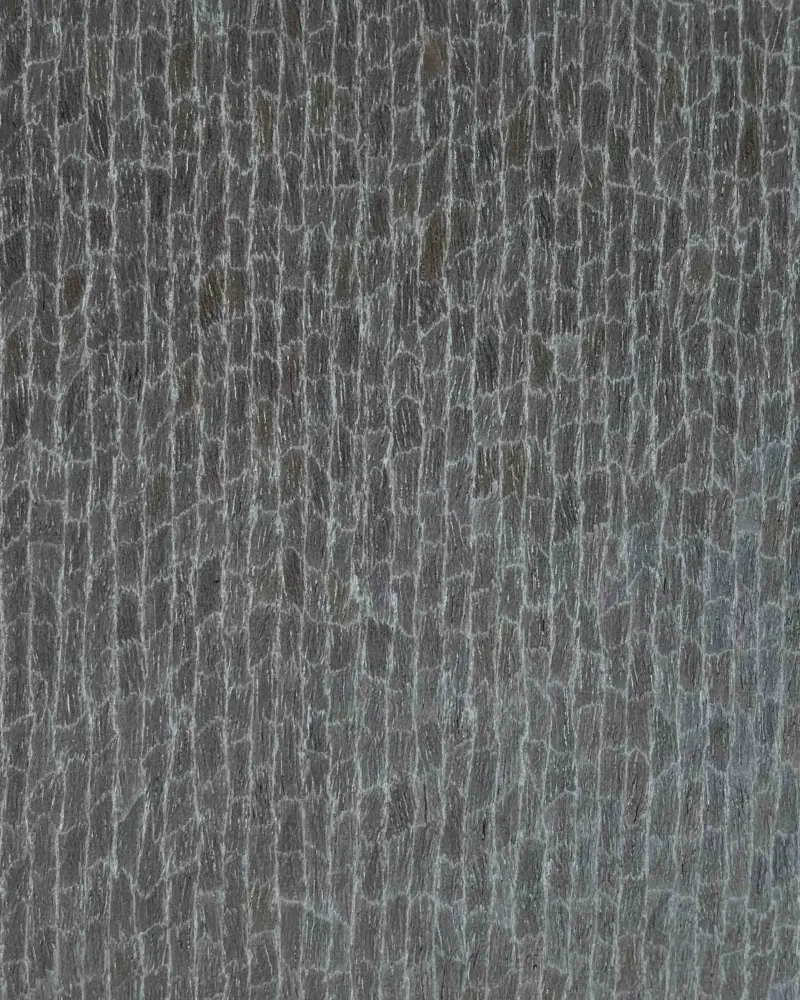
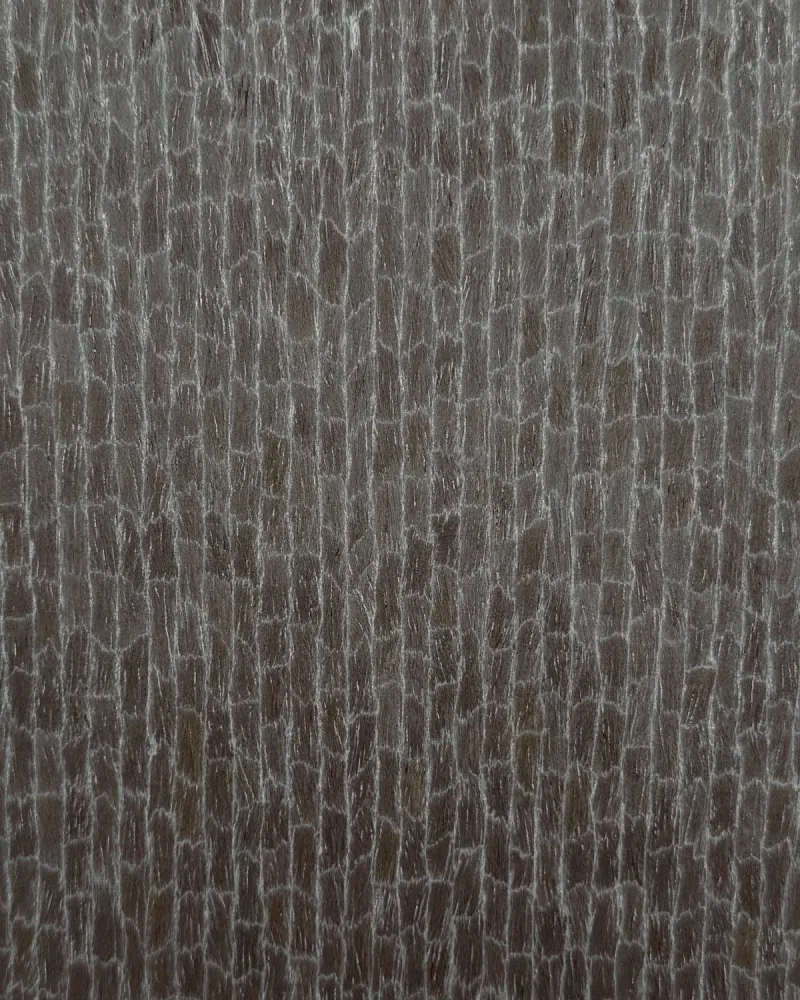
Replace the Berlin Black Out swatch with a new photograph
The new sheet shows the cracked, bark-like surface with its pale
crevices. Cropped to 4:5 from the centre; the grain runs true to
vertical. The address carries ?v=2 so browsers drop the old picture.
The hi-res sheet and room views are unchanged.

diff --git a/src/data.js b/src/data.js
@@ -930,7 +930,7 @@ export const PRODUCTS = [
     species: 'Engineered Wood',
     idSpecies: 'Kayu Rekayasa',
     hiResImage: '/assets/hires/BERLIN BLACK OUT.png',
-    image: '/assets/image/BERLIN BLACK OUT.webp',
+    image: '/assets/image/BERLIN BLACK OUT.webp?v=2',
     bestFor: 'Bar fronts, dramatic accent walls, tactile focal points',
     idBestFor: 'muka bar, dinding aksen dramatis, titik fokus taktil',
     finish: 'Textured matte',
